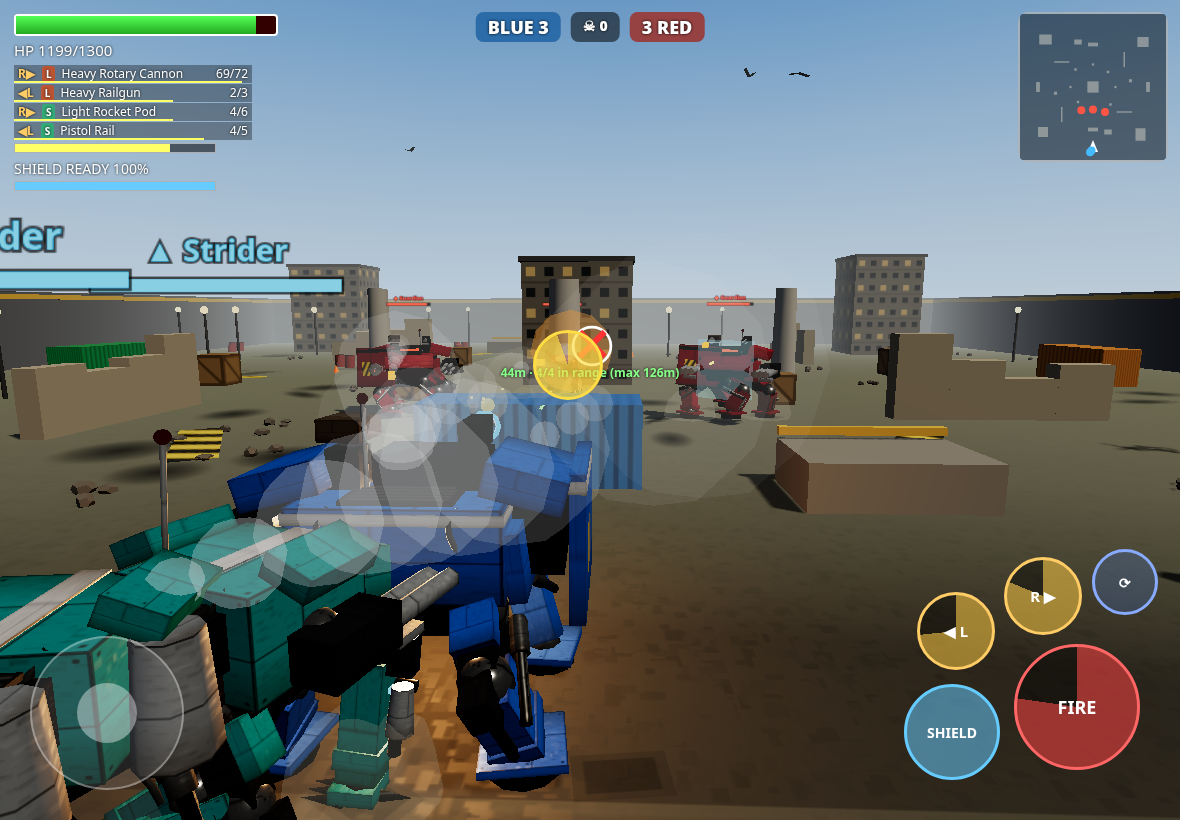
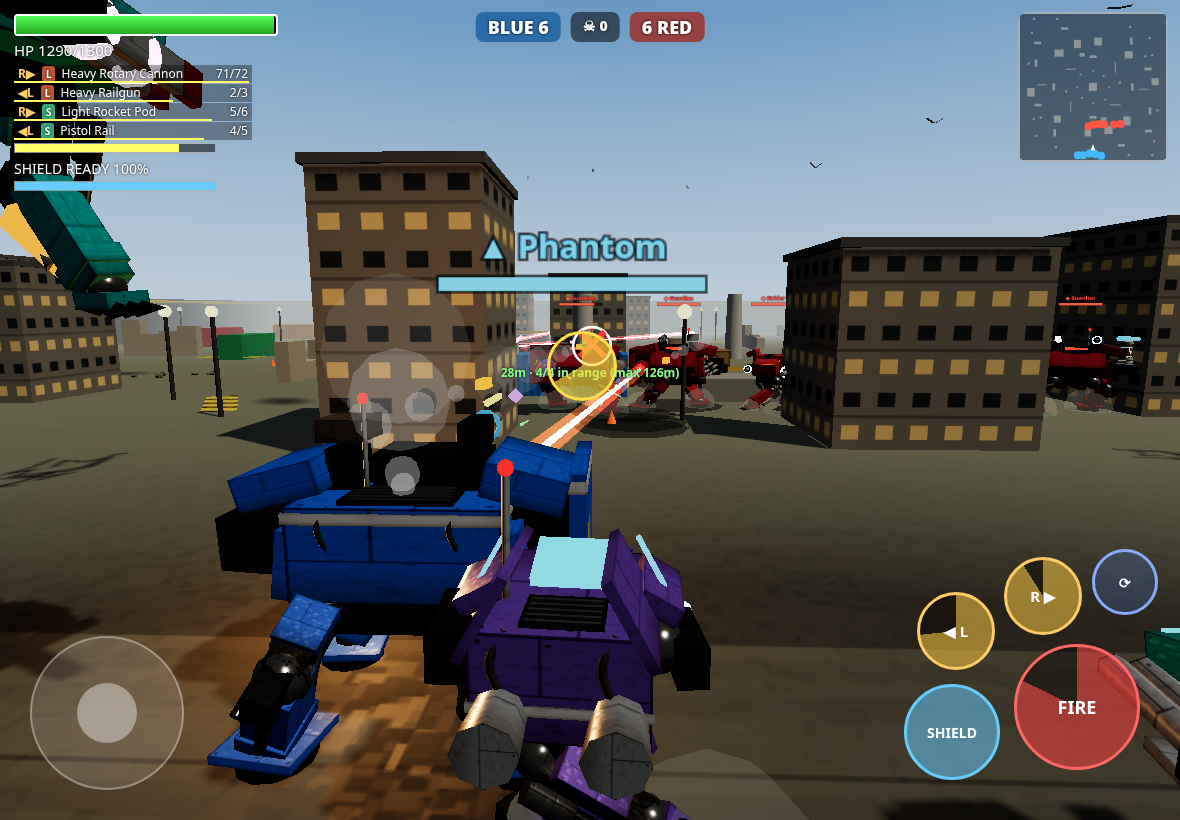
v19: mouse aim from first click, desktop weapon HUD, ~2x maps, 6v6

diff --git a/game.js b/game.js
@@ -1,4 +1,4 @@
-/*v18 test pilot*/
+/*v19 bigger battles*/
 import * as THREE from './three.module.js';
 /*v14 lasers+shield toggle*/ // ======================= CONFIG (tune here) =======================
 const CFG={
@@ -37,9 +37,9 @@ const CFG={
   hard:  {name:'Hard',  hpMul:1.0, dmgMul:0.75,fireMul:1.15,spread:0.025,react:0.22,lead:1.0,think:[0.5,1.1],ability:1,  cover:true, strafe:1,  speedMul:0.95,burstPause:[0.5,1.2]},
  },
  allyProfile:'normal', enemyProfile:'normal',
- modes:{team:{name:'Team Battle',sub:'3 v 3',desc:'You + 2 AI allies vs 3 AI mechs. Destroy the whole enemy team.'},
+ modes:{team:{name:'Team Battle',sub:'6 v 6',desc:'You + 5 AI allies vs 6 AI mechs. Destroy the whole enemy team.'},
   duel:{name:'Duel',sub:'1 v 1',desc:'One enemy mech. Pick a difficulty: higher levels aim better, react faster, use cover and abilities.'},
-  base:{name:'Capture the Base',sub:'3 v 3',desc:'Stand in the enemy base with no defenders to capture it. Win by capture or by destroying all enemies. Defend your own base!'}},
+  base:{name:'Capture the Base',sub:'6 v 6',desc:'Stand in the enemy base with no defenders to capture it. Win by capture or by destroying all enemies. Defend your own base!'}},
  capture:{radius:7,time:12,perExtra:0.5,decay:0.35,bases:{b:[0,47],r:[0,-47]}},
  gfx:{high:{pixelRatio:1.5,shadows:true,shadowMap:1024},low:{pixelRatio:1,shadows:false,shadowMap:512},autoFallbackFps:26,autoWindow:3},
 };
@@ -159,6 +159,7 @@ function reward(win,why){const E=CFG.econ,md=settings.mode,mul=md==='duel'?E.due
  let tot=rows.reduce((s,r)=>s+r[1],0);if(mul!==1){const x=Math.round(tot*mul)-tot;rows.push([`${CFG.diff[settings.diff].name} difficulty ×${mul}`,x]);tot+=x;}
  chMatch(win,why);SAVE.coins+=tot;SAVE.earned+=tot;if(win)SAVE.wins++;profStat(win);persist();return {rows,tot};}
 let A=60;// half size (per map)
+const MAPSC=1.4;// v19: maps ~2x area (1.4x per side)
 function tex(w,h,draw,rep){const c=document.createElement('canvas');c.width=w;c.height=h;draw(c.getContext('2d'),w,h);const t=new THREE.CanvasTexture(c);t.colorSpace=THREE.SRGBColorSpace;if(rep){t.wrapS=t.wrapT=THREE.RepeatWrapping;t.repeat.set(rep,rep);}return t;}
 // gradient sky
 const LEG={hipY:2.5,L1:1.2,L2:1.2,foot:.25,idleKnee:.25,strideRate:1.5};
@@ -219,7 +220,7 @@ function tank(x,z,r,h,c){deco(cylG,mat(c,null,{metalness:.5,roughness:.5}),x,h/2
 function lamp(x,z,c=0xfff2b0){deco(poleG,mat(0x333333),x,3,z,1,1,1);deco(bulbG,new THREE.MeshBasicMaterial({color:c}),x,6.1,z,1);}
 function border(c=0x5a5d62,h=8,trim=0xd0a020){for(const [x,z,w,d] of [[0,-A,A*2,2],[0,A,A*2,2],[-A,0,2,A*2],[A,0,2,A*2]]){wall(x,z,w,d,h,c);deco(boxG,mat(trim),x,h-.5,z,w+.1,.5,d+.1);}}
 // reserved zones: keep spawn lanes and bases clear
-function free(x,z,r){if(Math.abs(x)>A-r-3||Math.abs(z)>A-r-3)return false;if(Math.abs(x)<14+r&&Math.abs(z)>A-22-r)return false;for(const o of obst)if(Math.abs(x-o.x)<o.hx+r+3&&Math.abs(z-o.z)<o.hz+r+3)return false;return true;}
+function free(x,z,r){if(Math.abs(x)>A-r-3||Math.abs(z)>A-r-3)return false;if(Math.abs(x)<26+r&&Math.abs(z)>A-24-r)return false;for(const o of obst)if(Math.abs(x-o.x)<o.hx+r+3&&Math.abs(z-o.z)<o.hz+r+3)return false;return true;}
 function scatter(n,r,fn,tries=40){for(let i=0;i<n;i++)for(let t=0;t<tries;t++){const x=R2(-A,A),z=R2(-A,A);if(free(x,z,r)){fn(x,z);break;}}}
 function mirror(fn){fn(1);fn(-1);}// point-symmetric layouts for fairness
 const MAPS={
@@ -278,13 +279,23 @@ const MAPS={
     ruin(s*10,s*20,12,true,0xb07a50);container(s*45,s*-5,false,0x6a6a5a);});
    solid(0,0,10,4,3,mat(0x8a5a3a,rockT));scatter(22,2,(x,z)=>rock(x,z,R2(1.6,3.4),0xa06038));scatter(8,1.2,(x,z)=>crate(x,z,2));}}
 };
+// v19: fill the enlarged outer ring with mirrored, map-themed cover
+const EXPAL={arena:[0x8a8478,0x5a554c],desert:[0xb06a3a,0xa86c40],city:[0x9a9490,0x6a6660],port:[0x2e6bb0,0x8a8a92],arctic:[0xe0e4e8,0xb8d8ec],canyon:[0x9a5430,0xa06038]};
+function expand(key,A0){const [c1,c2]=EXPAL[key]||EXPAL.arena,cc=[0xb03a2e,0x2e6bb0,0x2e8a4a,0xc07a20];const n=Math.round((key==='city'?26:18)*(MAPSC*MAPSC-1));let placed=0;
+ for(let t=0;t<n*30&&placed<n;t++){const x=R2(-A,A),z=R2(-A,A);if(Math.max(Math.abs(x),Math.abs(z))<A0*.8)continue;const big=rnd()<.4,r=big?6:3;if(!free(x,z,r)||!free(-x,-z,r))continue;placed++;const kind=rnd();
+  mirror(s=>{const X=s*x,Z=s*z;
+   if(key==='desert'||key==='canyon'){big?mesa(X,Z,R2(9,14),R2(8,12),R2(6,10),c1):rock(X,Z,R2(2,3.4),c2);}
+   else if(key==='arctic'){big?dome(X,Z,R2(5,7),c1):rock(X,Z,R2(1.8,3),c2);}
+   else if(key==='port'){big?building(X,Z,14,10,R2(8,12),c2):container(X,Z,kind<.5,cc[(kind*8|0)%4],1+(kind<.3));}
+   else if(key==='city'){big?building(X,Z,R2(8,11),R2(8,11),R2(10,20),c1):(kind<.5?solid(X,Z,R2(3,6),1.2,R2(1,2.2),mat(0x77706a)):container(X,Z,kind<.75,0x8a3a2a));}
+   else{big?building(X,Z,R2(7,10),R2(7,10),R2(8,12),c1):(kind<.4?crate(X,Z,2.4):kind<.7?container(X,Z,kind<.55,cc[(kind*8|0)%4]):ruin(X,Z,10,kind<.85));}});}}
 const MAP_KEYS=Object.keys(MAPS);let MAP=null,mapKey=null;const HEMI=S.children.find(o=>o.isHemisphereLight);
-function applyDraw(){const f=MAP.fog,k=settings.gfx==='low'?.72:1;S.fog.near=f[1]*k;S.fog.far=f[2]*k;C.far=S.fog.far+15;C.updateProjectionMatrix();skyDome.scale.setScalar(C.far*.9/200);}
-function loadMap(key,seed){const m=MAPS[key];mapKey=key;MAP=m;A=m.A;rnd=seeded(seed??(Math.random()*1e9|0));
+function applyDraw(){const f=MAP.fog,k=(settings.gfx==='low'?.72:1)*1.2;S.fog.near=f[1]*k;S.fog.far=f[2]*k;C.far=S.fog.far+15;C.updateProjectionMatrix();skyDome.scale.setScalar(C.far*.9/200);}
+function loadMap(key,seed){const m=MAPS[key];mapKey=key;MAP=m;A=Math.round(m.A*MAPSC);rnd=seeded(seed??(Math.random()*1e9|0));
  for(const c of [...MAPG.children]){MAPG.remove(c);if(c.isInstancedMesh)c.dispose();}obst.length=0;obstMeshes.length=0;
  paintSky(m.sky);S.background.setHex(m.bg);S.fog.color.setHex(m.fog[0]);HEMI.color.setHex(m.hemi[0]);HEMI.groundColor.setHex(m.hemi[1]);HEMI.intensity=m.hemi[2];dl.color.setHex(m.sun[0]);dl.intensity=m.sun[1];
  if(groundMat.map)groundMat.map.dispose();groundMat.map=groundTex(m.ground);groundMat.map.repeat.set(m.rep,m.rep);groundMat.needsUpdate=true;ground.scale.set(A*2,A*2,1);
- m.build();detail(key);flushBatch();
+ m.build();expand(key,m.A);detail(key);flushBatch();
  // non-batched collision shapes (rocks/domes/tanks/pillars) still need ray targets: map them to their instanced mesh by proximity is overkill; use invisible proxy boxes merged in one InstancedMesh
  const px=obst.filter(o=>!o.m);if(px.length){const im=new THREE.InstancedMesh(boxG,new THREE.MeshBasicMaterial({visible:false}),px.length);px.forEach((o,i)=>{_o.position.set(o.x,o.h/2,o.z);_o.rotation.set(0,0,0);_o.scale.set(o.hx*2,o.h,o.hz*2);_o.updateMatrix();im.setMatrixAt(i,_o.matrix);o.m=im;});im.computeBoundingSphere();MAPG.add(im);obstMeshes.push(im);}
  const bz=A-13;CFG.capture.bases={b:[0,bz],r:[0,-bz]};if(typeof BASES!=='undefined')for(const [t,[x,z]] of Object.entries(CFG.capture.bases)){const b=BASES[t];if(b){b.x=x;b.z=z;b.g.position.set(x,0,z);}}
@@ -603,12 +614,13 @@ function clearWorld(){for(const u of U)S.remove(u.g);if(P&&!U.includes(P))S.remo
 const rk=o=>{const k=Object.keys(o);return k[Math.floor(Math.random()*k.length)];};
 function spawn(u,x,z,yaw){u.g.position.set(x,0,z);u.tYaw=u.legYaw=u.yaw=yaw;initFeet(u);U.push(u);}
 let lastMap=null;function pickMap(){if(settings.map!=='random'&&MAPS[settings.map])return settings.map;const k=MAP_KEYS.filter(k=>k!==lastMap);return k[Math.floor(Math.random()*k.length)];}
-function newGame(){clearWorld();lastMap=pickMap();loadMap(lastMap);const SZ=A-12;clock=0;endT=-1;result=null;STATS.shots=STATS.hits=STATS.kills=0;chStart();const md=settings.mode;
+function newGame(){try{if(typeof lockAim==='function')lockAim();}catch(e){}clearWorld();lastMap=pickMap();loadMap(lastMap);const SZ=A-12;clock=0;endT=-1;result=null;STATS.shots=STATS.hits=STATS.kills=0;chStart();const md=settings.mode;
  P=makeUnit('b',loadout.mech,slotsOf(loadout.mech),null);P.isPlayer=true;applyPaint(P,paintOf(loadout.mech));spawn(P,0,SZ,Math.PI);P.pitch=.05;camYaw=Math.PI;
  const team=md!=='duel';
- if(team){const roles=md==='base'?['att','def']:['esc','esc'];[[-7,SZ+2],[7,SZ+2]].forEach(([x,z],i)=>{const a=(t=>makeUnit('b',t,aiSlots(t),CFG.allyProfile))(window.__forceAI||rk(CFG.mechs));a.role=roles[i];spawn(a,x,z,Math.PI);makePlate(a,true);});}
- const n=team?3:1,eroles=md==='base'?['def','att','att']:['hunt','hunt','hunt'];
- for(let i=0;i<n;i++){const e=(t=>makeUnit('r',t,aiSlots(t),md==='duel'?settings.diff:CFG.enemyProfile))(window.__forceAI||rk(CFG.mechs));e.role=eroles[i];const sp=[[0,-SZ],[-7,-SZ-2],[7,-SZ-2]][i];spawn(e,sp[0],sp[1],0);makePlate(e,false);}
+ const TS=CFG.teamSize||6;
+ if(team){for(let i=0;i<TS-1;i++){const a=(t=>makeUnit('b',t,aiSlots(t),CFG.allyProfile))(window.__forceAI||rk(CFG.mechs));a.role=md==='base'?(i%2?'def':'att'):'esc';const k=(i>>1)+1,sd=i%2?1:-1;spawn(a,sd*k*7,SZ+2+(k>1?3:0),Math.PI);makePlate(a,true);}}
+ const n=team?TS:1;
+ for(let i=0;i<n;i++){const e=(t=>makeUnit('r',t,aiSlots(t),md==='duel'?settings.diff:CFG.enemyProfile))(window.__forceAI||rk(CFG.mechs));e.role=md==='base'?(i%3===0?'def':'att'):'hunt';const k=(i+1)>>1,sd=i%2?1:-1;spawn(e,i?sd*k*7:0,-SZ-(i?2:0)-(k>1?3:0),0);makePlate(e,false);}
  showBases(md==='base');mode='play';showUI();mapBanner();drawMiniBase();}
 // ---------- projectiles & effects ----------
 const PG={minigun:new THREE.BoxGeometry(.12,.12,1),railgun:new THREE.BoxGeometry(.18,.18,4),hornet:new THREE.BoxGeometry(.35,.35,1),shotgun:new THREE.BoxGeometry(.1,.1,.7)};
@@ -705,7 +717,12 @@ function playerAim(){ray.setFromCamera(AIMNDC,C);const R_=foes('b');const tg=[..
 const $=id=>document.getElementById(id);
 const ABKEYS=['KeyE','ShiftLeft','ShiftRight','Space'];
 addEventListener('keydown',e=>{if(e.target&&/INPUT|TEXTAREA/.test(e.target.tagName))return;if(!inp.keys[e.code]&&ABKEYS.includes(e.code))ability(P);inp.keys[e.code]=true;if(e.code==='KeyR')manualReload();if(e.code==='Space')e.preventDefault();});addEventListener('keyup',e=>inp.keys[e.code]=false);
-const cv=R.domElement;cv.addEventListener('mousedown',e=>{if(mode!=='play')return;if(document.pointerLockElement!==cv&&cv.requestPointerLock)cv.requestPointerLock();if(e.button===0)inp.mFire=true;if(e.button===2)ability(P);});
+const cv=R.domElement;let plkErrT=-9;
+// v19: pointer lock is requested from the DEPLOY/PLAY AGAIN click itself (a user gesture), and any click anywhere in the battle (not just on the canvas) re-acquires it
+function lockAim(){if(!cv.requestPointerLock||document.pointerLockElement===cv)return;try{const r=cv.requestPointerLock();if(r&&r.catch)r.catch(()=>{plkErrT=performance.now();});}catch(e){plkErrT=performance.now();}}
+document.addEventListener('pointerlockerror',()=>{plkErrT=performance.now();});
+addEventListener('mousedown',e=>{if(mode!=='play')return;if(e.target&&e.target.closest&&e.target.closest('.btn,#joy,button,input'))return;if(document.pointerLockElement!==cv){lockAim();}if(e.button===0)inp.mFire=true;if(e.button===2)ability(P);});
+const DESK=!('ontouchstart' in window)||(matchMedia&&matchMedia('(pointer:fine)').matches&&!matchMedia('(pointer:coarse)').matches);
 addEventListener('mouseup',e=>{if(e.button===0)inp.mFire=false;});addEventListener('contextmenu',e=>e.preventDefault());
 addEventListener('mousemove',e=>{if(document.pointerLockElement===cv&&P){P.yaw-=e.movementX*.003;P.pitch=Math.max(-.3,Math.min(.5,P.pitch+e.movementY*.002));}});
 const joy=$('joy'),knob=$('knob');let jid=null,jc;
@@ -1087,6 +1104,8 @@ function hud(){const W=P.W,T=P.T;hudN++;
  else if(T.jump){if(P.abCd>0){af=1-P.abCd/T.jump.cd;at=`JUMP COOLDOWN ${P.abCd.toFixed(1)}s`;ac='#678';}else at='JUMP READY';}
  else{const t=clock-P.lastHit;af=P.hp>=P.max?1:Math.min(1,t/T.regen.delay);at=P.hp>=P.max?'REGEN: FULL':(af>=1?`REGENERATING +${T.regen.rate}/s`:`REGEN IN ${(T.regen.delay-t).toFixed(1)}s`);ac=af>=1?'#6f9':'#678';}
  bAB.classList.toggle('on',!!(T.shield&&P.shieldOn));bAB.textContent=T.shield?(P.shieldOn?'LOWER':'SHIELD'):bAB.textContent;abBar.style.width=af*100+'%';abBar.style.background=ac;$('abt').textContent=at;ring(bAB,af,ac+'8');
+ if(DESK&&(hudN&3)===0)deskPanel(at,af,ac);
+ if(DESK){const pl=$('plk');const need=P.alive&&document.pointerLockElement!==R.domElement;pl.style.display=need?'block':'none';if(need)pl.textContent=performance.now()-plkErrT<1500?'🖱 Click again to take aim control':'🖱 Click to aim — mouse controls the turret';}
  if((hudN&3)===0&&P.alive){const ap=playerAim(),d=ap.distanceTo(P.g.position);const mr=Math.max(...P.ws.map(w=>w.W.range)),nIn=P.ws.filter(w=>d<=w.W.range).length,inR=nIn>0;rng.textContent=`${Math.round(d)}m · ${nIn}/${P.ws.length} in range (max ${mr}m)${inR?'':' OUT OF RANGE'}`;rng.style.color=inR?'#8f8':'#f66';$('xh').style.borderColor=aimOnEnemy?(inR?'#f33':'#f668'):(inR?'#fffa':'#fff6');}
  $('xh').classList.toggle('hit',hitMarkT>0);hitMarkT-=1/60;}
 // ---------- MENU ----------
@@ -1177,8 +1196,17 @@ function renderMenu(){const Ms=CFG.mechs,Ws=CFG.weapons,Md=CFG.modes;let h='';co
   <div class="row"><button data-go="mech">◀ BACK</button><button class="go" data-go="deploy" ${cur.some(isLocked)?'disabled':''}>DEPLOY</button></div>`;}
  mc.className=menuStep==='weapon'?'lo':'';mc.innerHTML=h;/*v13 sticky menu bar*/}
 function goMenu(){clearWorld();if(mapKey!=='arena')loadMap('arena',7);showBases(false);mode='menu';menuStep='title';preview();renderMenu();showUI();}
+function deskPanel(at,af,ac){const pct=v=>Math.max(0,Math.min(100,v*100)).toFixed(0)+'%';
+ const rows=P.ws.map(w=>{const W=w.W;let st,f,col='#ff6';
+  if(W.emp&&w.chg){f=Math.min(1,(clock-w.chg)/W.charge);st='CHARGING '+Math.round(f*100)+'%';col='#8cf';}
+  else if(w.reload){f=1-w.reload/W.reload;st=(W.beam?'OVERHEAT ':'RELOAD ')+w.reload.toFixed(1)+'s';col='#fa4';}
+  else if(W.beam){f=1-(w.heat||0);st='HEAT '+Math.round((w.heat||0)*100)+'%';col=(w.heat||0)>.7?'#f64':'#6cf';}
+  else{f=w.ammo/W.mag;st=w.ammo+'/'+W.mag;}
+  const cd=w.fireCd>0.25&&!w.reload?` <small>CD ${w.fireCd.toFixed(1)}s</small>`:'';
+  return `<div class="dw"><span class="dk">${w.s<0?'Q/1':'C/2'}</span><b>${W.name}</b><em style="color:${col}">${st}${cd}</em><i style="width:${pct(f)};background:${col}"></i></div>`;}).join('');
+ $('dpanel').innerHTML=`<div class="dh">WEAPONS</div>${rows}<div class="dw da"><span class="dk">E/⇧/␣</span><b>ABILITY</b><em style="color:${ac}">${at}</em><i style="width:${pct(af)};background:${ac}"></i></div><div class="dkeys">WASD move · Mouse aim · LMB/F fire all · Q/1 left · C/2 right · R reload · E/Shift/Space/RMB ability · Esc release mouse</div>`;}
 function showUI(){menu.style.display=mode==='menu'?'flex':'none';$('hud').style.display=mode==='play'?'block':'none';$('msg').style.display=mode==='over'?'flex':'none';
- const t=TOUCH&&mode==='play'?'':'none';for(const id of['joy','bMG','bAB','bRL','bFL','bFR'])$(id).style.display=t;$('hint').style.display=TOUCH||mode!=='play'?'none':'';
+ const t=TOUCH&&mode==='play'?'':'none';for(const id of['joy','bMG','bAB','bRL','bFL','bFR'])$(id).style.display=t;$('hint').style.display=TOUCH||DESK||mode!=='play'?'none':'';document.body.classList.toggle('tch',TOUCH);$('dpanel').style.display=DESK&&mode==='play'?'block':'none';if(mode!=='play'){$('plk').style.display='none';if(document.pointerLockElement&&document.exitPointerLock)document.exitPointerLock();}document.body.classList.toggle('desk',DESK);
  if(mode==='play'){bAB.textContent=P.T.ability;bAB.classList.toggle('passive',!!P.T.regen);}}
 function menuClick(e){const el=e.target.closest('[data-ptest],[data-ptreset],[data-chc],[data-chtab],[data-ttl],[data-pnew],[data-psw],[data-pren],[data-prsave],[data-pdel],[data-pexp],[data-pcopy],[data-pimp],[data-go],[data-mech],[data-wpn],[data-mode],[data-diff],[data-gfx],[data-gtab],[data-gsel],[data-up],[data-buy],[data-paint],[data-reset],[data-map],[data-slot],[data-pick]');if(!el||el.disabled)return;const d=el.dataset;
  if(!d.reset)resetArm=false;if(!d.pdel&&!d.ptreset)pdelArm=null;if(d.go)pren=null,pexp=false;
@@ -1203,7 +1231,7 @@ function menuClick(e){const el=e.target.closest('[data-ptest],[data-ptreset],[da
 menu.addEventListener('click',menuClick);
 $('again').addEventListener('click',()=>newGame());$('tomenu').addEventListener('click',()=>goMenu());
 loadMap('arena',7);setGfx(settings.gfx);goMenu();requestAnimationFrame(loop);
-window.__game={THREE_V:THREE.Vector3,hurt,STATS,C,cam,obst,obstMeshes,BASES,CFG,get U(){return U},get E(){return foes('b')},get P(){return P},get B(){return B},get mode(){return mode},get fps(){return fps},get SPEC(){return SPEC},get settings(){return settings},
+window.__game={THREE_V:THREE.Vector3,R,S,get A(){return A},overview(){const c=new THREE.PerspectiveCamera(55,innerWidth/innerHeight,1,800);c.position.set(0,A*1.55,A*1.05);c.lookAt(0,0,-A*.08);const f=S.fog;S.fog=null;R.render(S,c);S.fog=f;},hurt,STATS,C,cam,obst,obstMeshes,BASES,CFG,get U(){return U},get E(){return foes('b')},get P(){return P},get B(){return B},get mode(){return mode},get fps(){return fps},get SPEC(){return SPEC},get settings(){return settings},
  ability:()=>ability(P),abilityU:u=>ability(u),blocked:(x,z,r,y)=>blocked(x,z,r,y),groundAt:(x,z,y)=>groundAt(x,z,y),get A(){return A},newGame,goMenu,setGfx,get loadout(){return loadout},setLoadout:(m,w)=>{loadout.mech=m;loadout.slots[m]=CFG.slots[m].map(sl=>adapt(w,sl,false));},setSlots:(m,a)=>{loadout.mech=m;loadout.slots[m]=a.slice();},slotsOf:t=>slotsOf(t),SIZES,menu:st=>{menuStep=st;renderMenu();},slot:i=>{slotSel=i;pickSel=null;renderMenu();},
  startMatch:(md,df,mp)=>{settings.mode=md;if(df)settings.diff=df;if(mp)settings.map=mp;newGame();},MAPS,get mapKey(){return mapKey},loadMap,setBaseProg:(t,v)=>{BASES[t].prog=v;},
  killTeam:t=>{for(const u of U)if(u.team===t&&u.alive)hurt(u,1e6,null,null);},killUnit:u=>hurt(u,1e6,null,null),get SAVE(){return SAVE},get PROFS(){return PROFS},createTest,resetTest,testFill,isTest,chClaim,chDaily,chClaimable,CAREER,DPOOL,chEv,dayKey,cTier,get menuStep(){return menuStep},speedOf:u=>speedOf(u),createProf,renameProf,deleteProf,useProf,exportCode,importCode,buyUp,buyUnlock,buyPaint,resetProgress,upMech,upWpn,get reward(){return LAST_REWARD},lineup:(w)=>{if(P){S.remove(P.g);P=null;}if(LINEUP)LINEUP.forEach(u=>S.remove(u.g));LINEUP=['guardian','strider','mender','phantom'].map((k,i)=>{const u=makeUnit('b',k,w||CFG.defSlots[k],null);u.g.position.set(-10.5+i*7,0,48);u.tYaw=u.legYaw=u.yaw=Math.PI*0.82;initFeet(u);animMech(u,.016);return u;});},renderMenu,go:s=>{menuStep=s;renderMenu();}};

diff --git a/index.html b/index.html
@@ -99,12 +99,18 @@ b.zS,b.zM,b.zL{padding:0 3px;border-radius:3px}
 .cbar{height:10px;background:#0006;border-radius:6px;overflow:hidden;margin:6px 0}.cbar i{display:block;height:100%;background:linear-gradient(90deg,#fa4,#fd6)}
 #mc .ok{color:#6f9}#mc .rdy{filter:drop-shadow(0 0 4px #fd6)}#mc .dim{opacity:.3}.ttl{font-size:.7em;color:#fd6;background:#fd62;border-radius:8px;padding:1px 8px;margin-left:6px}
 .chr{width:min(520px,90vw);font-size:14px;margin:8px 0;background:#0007;border-radius:10px;padding:8px 12px}.chr b{font-size:13px;opacity:.8}.chrr{display:grid;grid-template-columns:1fr 110px 70px;gap:8px;align-items:center;font-weight:normal}.chrr small{font-size:13px}.chrr i{color:#6f9;font-style:normal}.chrr .cbar{width:100%;min-width:100px;height:8px}.chrn{color:#fd6;margin-top:4px;font-size:14px}
-.ttag{font-size:.6em;background:#3c6;color:#000;border-radius:8px;padding:1px 7px;margin-left:6px;vertical-align:middle}</style></head><body>
+.ttag{font-size:.6em;background:#3c6;color:#000;border-radius:8px;padding:1px 7px;margin-left:6px;vertical-align:middle}#dpanel{position:absolute;right:12px;bottom:12px;width:330px;background:#000a;border:1px solid #fff3;border-radius:10px;padding:6px 8px;font-size:12px;pointer-events:none;text-shadow:0 0 2px #000;display:none}
+#dpanel .dh{font-size:10px;letter-spacing:2px;opacity:.6;margin-bottom:2px}#dpanel .dw{position:relative;display:flex;gap:6px;align-items:center;padding:3px 4px 5px;margin:2px 0;background:#ffffff0d;border-radius:4px;white-space:nowrap;overflow:hidden}
+#dpanel .dw b{flex:1;overflow:hidden;text-overflow:ellipsis}#dpanel .dw em{font-style:normal;font-weight:bold}#dpanel .dw small{opacity:.7;font-weight:normal}#dpanel .dw i{position:absolute;left:0;bottom:0;height:3px;border-radius:2px}
+#dpanel .dk{font-size:10px;background:#fff2;border:1px solid #fff4;border-radius:3px;padding:0 4px;min-width:30px;text-align:center}#dpanel .da{margin-top:5px}#dpanel .dkeys{font-size:10px;opacity:.65;margin-top:4px;white-space:normal;line-height:13px}
+#plk{position:absolute;left:50%;top:58%;transform:translateX(-50%);background:#000b;border:1px solid #fd4;color:#fd4;font-weight:bold;font-size:15px;padding:8px 16px;border-radius:10px;pointer-events:none;display:none}
+body.desk #ammo{display:none}body.desk.tch #dpanel{right:auto;bottom:auto;left:14px;top:64px;width:300px}
+</style></head><body>
 <div id="hud"><div id="aim"></div><div id="hp"><div id="hpf"></div></div><div id="info"></div>
 <div id="ammo"><div id="gunt">GUN</div><div class="bar"><div id="gunf"></div></div><div id="abt">ABILITY</div><div class="bar"><div id="abf"></div></div></div>
-<div id="teams"></div><canvas id="mini" width="150" height="150"></canvas><div id="mapban"></div><div id="cap"><div id="capOt">YOUR BASE</div><div class="cb"><i id="capO"></i></div><div id="capEt">ENEMY BASE</div><div class="cb"><i id="capE"></i></div></div><div id="spec"></div><div id="toast"></div><div id="xh"></div><div id="rng"></div><div id="lock"></div>
+<div id="dpanel"></div><div id="plk"></div><div id="teams"></div><canvas id="mini" width="150" height="150"></canvas><div id="mapban"></div><div id="cap"><div id="capOt">YOUR BASE</div><div class="cb"><i id="capO"></i></div><div id="capEt">ENEMY BASE</div><div class="cb"><i id="capE"></i></div></div><div id="spec"></div><div id="toast"></div><div id="xh"></div><div id="rng"></div><div id="lock"></div>
 <div id="joy"><div id="knob"></div></div><div class="btn" id="bMG">FIRE</div><div class="btn" id="bAB">ABILITY</div><div class="btn" id="bRL">⟳</div><div class="btn grp" id="bFL">◀ L</div><div class="btn grp" id="bFR">R ▶</div></div>
 <div id="hint">WASD move · mouse aim (click to lock) · LMB/F fire · E/Shift/Space/RMB ability · R reload</div>
 <div id="menu"><div id="mc"></div></div>
 <div id="msg"><div id="mt"></div><div id="mm"></div><small id="ml"></small><div id="mk"></div><div id="coins"></div><button class="mb" id="again">PLAY AGAIN</button><button class="mb alt" id="tomenu">MAIN MENU</button></div>
-<script type="module" src="game.js?v=18"></script></body></html>
+<script type="module" src="game.js?v=19"></script></body></html>
